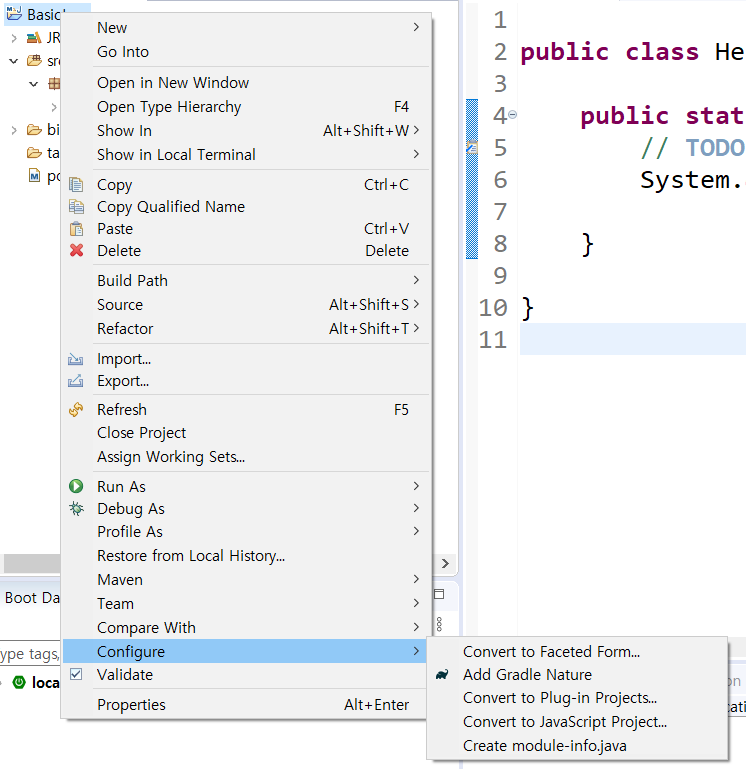
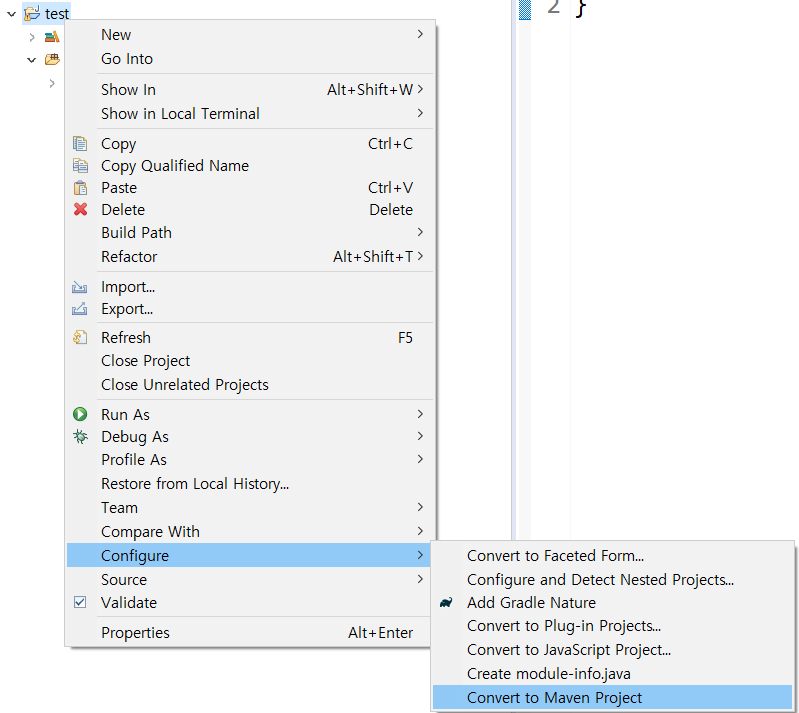
메이븐 정리.md 추가

Changed region(s): [[0.0, 0.0, 1.0, 1.0], [0.7708, 0.1234, 1.0, 0.2468], [0.7708, 0.3086, 0.8016, 0.3394]]

diff --git a/maven/정리.md b/maven/정리.md
@@ -25,17 +25,33 @@ javascript 계열에서 대표적인 load package manager는 npm
 
 
 
-이클립스에서 1번 하기
+#### 1) 기존 Java project를 Maven project로 변환(convert)
 
-![image-20200828133615763](../images/maven/mavenConvert1.png)
+test라는 프로젝트를 생성했다. 해당 프로젝트를 maven 프로젝트로 변환하기 위해  Configure → Convert to Maven Project로 해준다.
 
 ![image-20200828133726792](../images/maven/mavenConvert2.png)
 
+
+
+**Convert to Maven Project** 를 누르면 다음과 같은 창이 뜬다. POM.xml을 정해줄 수 있다.
+
+![image-20200904132532932](../images/maven/mavenConvert5.png)
+
+
+
+Finish를 누르면 디렉토리는 다음과 같은 구조를 갖는다.
+
+![image-20200904132145830](../images/maven/mavenConvert4.png)
+
+내가 만든 java maven 프로젝트에서 mongodb를 사용해야 하는 경우라면, maven repository에서 mongodb를 검색해서 maven dependency를 복사하여 pom.xml에 dependency를 추가 해준다. 
+
 ![image-20200828133941166](../images/maven/mavenConvert3.png)
+
+
 
 dependency 추가 이후 재시작(ctrl+f5)하면 추가된 dependency가 컴파일이 되면서 maven dependencies에 추가된다.
 
-![image-20200828134423655](../images/maven/mvnrepo4.png)
+![image-20200828133941166](../images/maven/mavenConvert1.png)
 
 
 
@@ -43,7 +59,13 @@ dependency 추가 이후 재시작(ctrl+f5)하면 추가된 dependency가 컴파
 
 
 
+
+
+#### 2) 처음부터 Maven project로 생성
+
 ![image-20200828134159436](../images/maven/newMaven1.png)
+
+
 
 
 
@@ -53,6 +75,6 @@ dependency 추가 이후 재시작(ctrl+f5)하면 추가된 dependency가 컴파
 
 #### Maven에서 라이브러리 설치 방식
 
-pom.xml에 dependency 추가
+* pom.xml에 dependency 추가
 
-.m2
+* .m2
